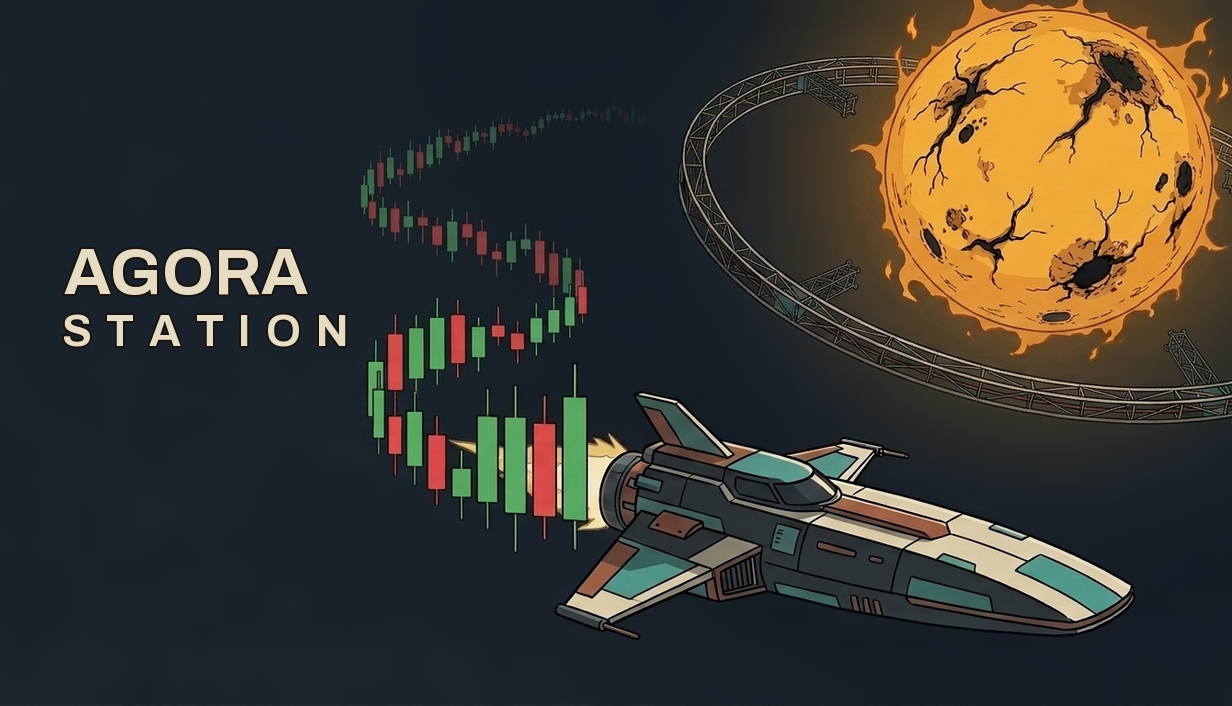
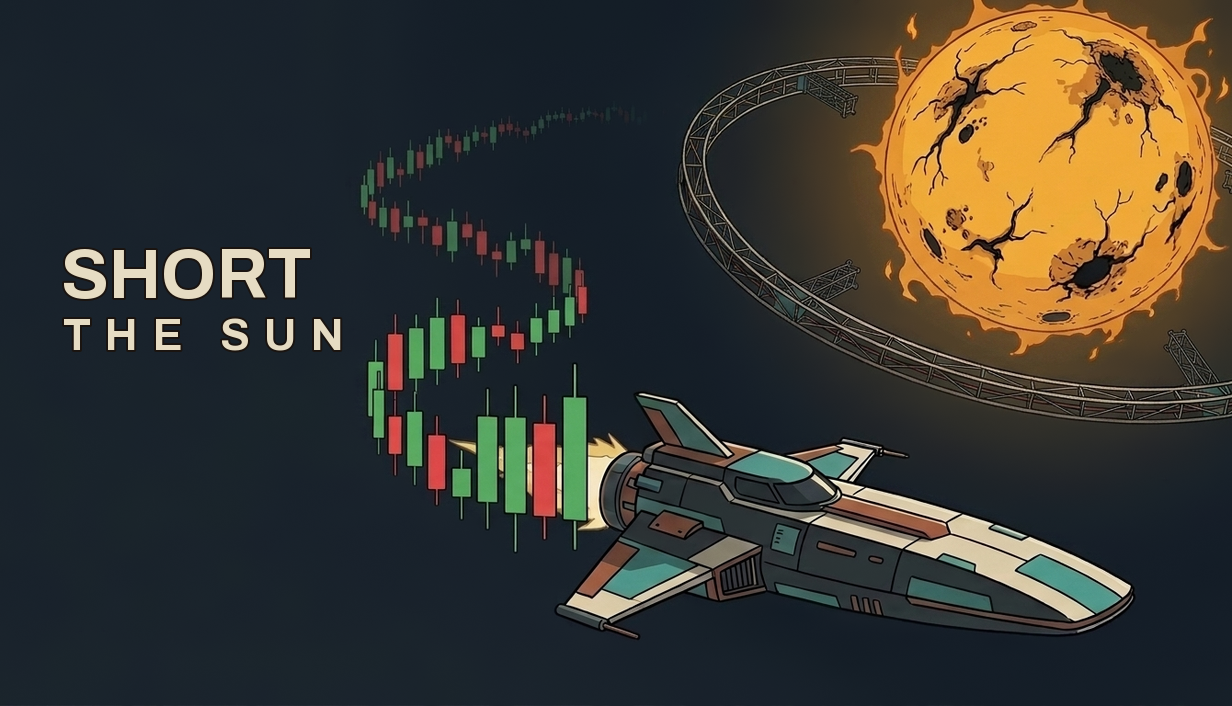
feat(store): Short the Sun title on Steam capsules and store name (#29, Steam store assets) (#208)
* feat(store): Short the Sun title on Steam capsules and store name (#29, Steam store assets)

* docs(art): README names the Short the Sun title (#29, Steam store assets)

---------

Changed region(s): [[0.0308, 0.3428, 0.3084, 0.4986]]

diff --git a/tools/art/make_capsules.py b/tools/art/make_capsules.py
@@ -24,8 +24,8 @@ BONE = (0xE6, 0xDC, 0xC3)
 INK = (0x1A, 0x14, 0x10)
 SHEET_BG = (0x0F, 0x0D, 0x0B)
 WEIGHT = 700
-WORD = "AGORA"
-WORD2 = "STATION"  # working title "Agora Station" (Ryan, 2026-10-12); second line, tracked to AGORA's width
+WORD = "SHORT"
+WORD2 = "THE SUN"  # title "Short the Sun" (Ryan, 2026-10-12); second line, tracked to the first line's width
 
 # name -> (width, height, layout, wordmark height fraction)
 # layout: "left" (left third, vertically centered) | "top" (centered, top third)
@@ -164,7 +164,7 @@ def busy_mask(img):
 
 
 def title_block(wm_target, max_w, stroke_w):
-    """AGORA over a tracked-out STATION, both lines the same width."""
+    """SHORT over a tracked-out THE SUN, both lines the same width."""
     wordmark = fit_text(WORD, wm_target, max_w, stroke_w, BONE, INK)
     if not WORD2:
         return wordmark

diff --git a/tests/test_steam_store_assets.py b/tests/test_steam_store_assets.py
@@ -18,7 +18,7 @@ class TestSteamStoreAssets(unittest.TestCase):
         self.steam_cfg = json.loads(STEAM_CONFIG_PATH.read_text(encoding="utf-8"))
 
     def test_basic_metadata_and_partner_alignment(self):
-        self.assertEqual(self.data["app_name"], "Agora Station")
+        self.assertEqual(self.data["app_name"], "Short the Sun")
         self.assertEqual(self.data["app_id_target"], 0)
         self.assertEqual(self.data["publisher"], "Placeholder Studios")
         self.assertEqual(self.steam_cfg.get("target_app_id"), 0)

diff --git a/docs/art/README.md b/docs/art/README.md
@@ -42,11 +42,11 @@ Adding an asset: add a `###` entry to `prompt-bible.md` (id, batch, aspect, samp
 
 ## Store capsules
 
-Steam store capsules for #29 (Steam store assets). Design approved by Ryan on 2026-10-12: the working title "Agora Station", a trading ship whose engine trail is an orbital arc of candlesticks, and the dying Sun with the Stabiliser ring floating clear of it.
+Steam store capsules for #29 (Steam store assets). Design approved by Ryan on 2026-10-12: the title "Short the Sun" (approved 14:55 PT, replacing the working title "Agora Station"), a trading ship whose engine trail is an orbital arc of candlesticks, and the dying Sun with the Stabiliser ring floating clear of it.
 
 - `art/store/keyart-source.png` is the raw Gemini take.
 - `art/store/keyart.png` is the same image with the mottled sky smoothed by `tools/art/clean_background.py`.
-- `tools/art/make_capsules.py` crops `keyart.png` to each size in `game/data/store_assets.json` and writes `art/store/capsules-sheet.png` for review. It sets the two-line title ("AGORA" over a tracked-out "STATION", Archivo, bone cream) at the largest size that clears the art. The page background and library hero carry no text.
+- `tools/art/make_capsules.py` crops `keyart.png` to each size in `game/data/store_assets.json` and writes `art/store/capsules-sheet.png` for review. It sets the two-line title ("SHORT" over a tracked-out "THE SUN", Archivo, bone cream) at the largest size that clears the art. The page background and library hero carry no text.
 
 Regenerate:
 
